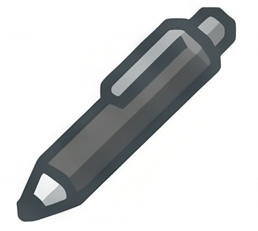
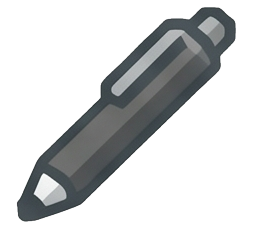
refactor(welcome): drop blend-mode workaround now that pngs are transparent

diff --git a/src/styles/overlays/welcome.css b/src/styles/overlays/welcome.css
@@ -35,20 +35,6 @@
   animation: mdv-welcome-bob 4.5s ease-in-out infinite;
 }
 
-/* notebook + pen pngs ship with white backgrounds — blend them into the modal */
-:root[data-theme="latte"] .mdv-welcome__art,
-:root[data-theme="matcha"] .mdv-welcome__art,
-:root:not([data-theme]) .mdv-welcome__art {
-  mix-blend-mode: multiply;
-}
-
-:root[data-theme="frappe"] .mdv-welcome__art,
-:root[data-theme="macchiato"] .mdv-welcome__art,
-:root[data-theme="mocha"] .mdv-welcome__art {
-  mix-blend-mode: luminosity;
-  opacity: 0.92;
-}
-
 @keyframes mdv-welcome-bob {
   0%, 100% { transform: translateY(0); }
   50% { transform: translateY(-5px); }